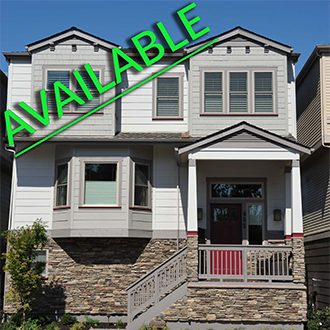
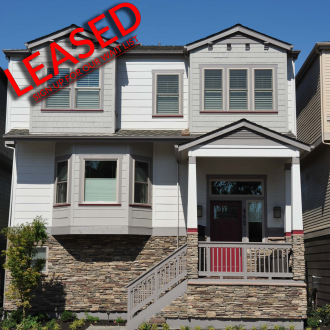
all leased

diff --git a/index - Copy (2).html b/index - Copy (2).html
@@ -103,7 +103,7 @@ _________________________________________________________ -->
                     </li>
 					<li><a href="#references">Homes</a>
                     </li>
-                    <li><a href="#qcontact">Availability</a>
+                    <li><a href="#qcontact">Wait List</a>
                     </li>
 					<li><a href="#about">About</a>
                     <!--</li>
@@ -581,7 +581,7 @@ _________________________________________________________ -->
                 <div class="row">
 
                     <div class="col-sm-12">
-                        <h2 class="title" data-animate="fadeInDown">AVAILABILITY</h2>
+                        <h2 class="title" data-animate="fadeInDown"><a href="mailto:info@angelarowhouses.com" target="_blank">CONTACT US FOR AVAILABILITY &amp; TO SIGN UP FOR THE WAIT LIST</a></h2>
                     </div>
 
                     <div class="col-sm-12">
@@ -590,7 +590,7 @@ _________________________________________________________ -->
 
                             <div class="col-sm-12 text-left" data-animate="fadeInUp">
 							<div style="text-align:center">
-                                <p style="text-align:center"><strong>All homes are currently leased. Check back on our website for availability updates.</strong></p>
+                                <p style="text-align:center"><strong><a class="scrollTo" href="#references">225 W Angela St </a>will be available soon and <a class="scrollTo" href="#references">452 Peters Ave </a>is available now. Future reservations are being taken for all homes.</strong></p>
                                  
 								<p style="margin-bottom:40px"><strong><a href="mailto:info@angelarowhouses.com" target="_blank">Email us</a> or call <a href="tel:+1-925-400-7691">1-925-400-ROW1</a></strong></p>
 							</div>
@@ -896,7 +896,7 @@ _________________________________________________________ -->
                     <!-- /.6 -->
 
                     <div style="col-sm-6">
-                        <p>&copy; 2017 Western Enterprises Management, LP. All rights reserved<a href="#footer" data-toggle="tooltip" title="Website by tknup">.</a></p>
+                        <p>&copy; 2016 Western Enterprises Management, LP. All rights reserved<a href="#footer" data-toggle="tooltip" title="Website by tknup">.</a></p>
                     </div>
 
                     <!--<div class="col-sm-12">
